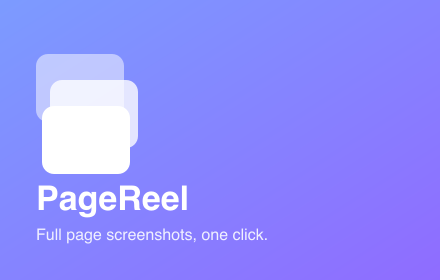
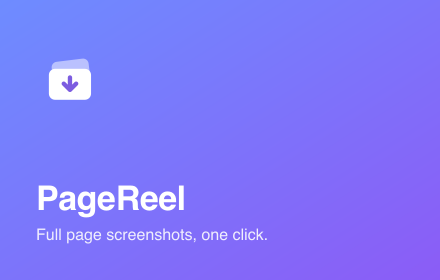
Finish Chrome Web Store publish readiness
- Host privacy policy live via GitHub Pages, wire the real URL into
  the listing and README instead of a placeholder
- Refresh promo tile art and popup screenshot to match the new icon
  and brand palette
- Update listing copy: keyboard shortcut, accurate header-capture
  behavior, broader ASO keywords
- README now tracks exactly what's done vs. what still needs the
  developer's own Chrome Web Store account

Changed region(s): [[0.0591, 0.1714, 0.325, 0.6286], [0.1182, 0.6571, 0.4432, 0.7714]]

diff --git a/README.md b/README.md
@@ -2,58 +2,67 @@
 
 A Manifest V3 Chrome extension that scrolls the active tab and stitches a full-length screenshot into one PNG, saved locally. No accounts, no server, no tracking.
 
-## Why it's built this way (design notes)
+Source: https://github.com/MehmetDemirkok/pagereel
+Live privacy policy: https://mehmetdemirkok.github.io/pagereel/store/privacy-policy.html
 
-The earlier extension you mentioned likely broke because a mid-capture failure (rate limiting, a slow/lazy page, or the popup closing) left the page in a half-modified state — sticky elements hidden, scroll position never restored, an overlay stuck on screen. PageReel is built specifically to avoid that:
+## How it behaves (and why)
 
-- All capture state lives in the **content script**, not the popup, so closing the popup never interrupts anything.
-- Every "prepare" step (hiding sticky/fixed elements, disabling smooth scroll) has a matching, always-run cleanup step.
-- A **45-second watchdog timer** in the content script force-restores the page (visibility, scroll position, overlay removed) if it never hears back from the background script — so a crash can never leave a page stuck.
-- `chrome.tabs.captureVisibleTab` calls are throttled and retried to respect Chrome's ~2-calls/second limit, instead of firing them as fast as possible.
-- Page height is capped (30,000px) to avoid crashing on infinite-scroll pages.
-- Minimal permissions: only `activeTab` (granted by the user's own click), no `<all_urls>`.
+- **Header handling**: the very first frame (top of page) is captured exactly as a visitor sees it, sticky header included. Only from the second frame on is the sticky/fixed header hidden — otherwise it would get re-captured, pinned, at every scroll position.
+- **Resolution**: captures happen at the display's real device pixel ratio (2x+ on Retina), losslessly encoded as PNG. There is deliberately no artificial zoom-based "sharpening" — an earlier version tried temporarily zooming the tab to 200% to force extra pixel density, but page zoom shrinks the CSS viewport and can cross a site's responsive breakpoint (swapping in its mobile layout mid-capture). That was reverted as unsafe.
+- **Crash safety**: all capture state lives in the content script, not the popup, so closing the popup never interrupts anything. A 45-second watchdog force-restores the page (visibility, scroll position, overlay removed) if it never hears back from the background script.
+- **Screenshots never contain the progress overlay**: the overlay is hidden immediately before each `captureVisibleTab` call and re-shown right after.
+- **Scroll detection**: works on both ordinary pages (window/`<html>` scrolls) and app-shell SPAs that keep `html`/`body` pinned to 100vh and scroll an inner container instead — the largest scrollable element is auto-detected.
+- `chrome.tabs.captureVisibleTab` calls are throttled/retried to respect Chrome's ~2-calls/second limit. Page height is capped (30,000px, with a total-pixel safety net on top) to avoid crashing on infinite-scroll pages.
+- Minimal permissions: only `activeTab` (granted by the user's own click or the keyboard shortcut), no `<all_urls>`.
+- Keyboard shortcut: `⌘⇧U` / `Ctrl+Shift+U` (user-customizable at `chrome://extensions/shortcuts`), shown live in the popup.
 
 ## Project structure
 
 ```
 manifest.json
 src/
-  background.js     — service worker: orchestrates scroll+capture loop
+  background.js     — service worker: orchestrates scroll+capture loop, keyboard command
   content.js         — injected into the page: scrolling, overlay UI, watchdog
   offscreen.html/js  — stitches tiles into one PNG (canvas isn't available in the worker)
   popup/              — toolbar popup UI
-icons/                — extension icons (icon.svg is the source, rasterized to 16/32/48/128)
+icons/                — icon.svg (128/48, detailed) + icon-small.svg (16/32, simplified for legibility), rasterized to PNG
 store/
-  listing.md          — title, descriptions, keywords, permission justifications
-  privacy-policy.html — must be hosted at a public URL for the dashboard (see below)
-  promo/               — promo tile art
+  listing.md          — title, descriptions, keywords, permission justifications (ready to paste into the dashboard)
+  privacy-policy.html — source; live copy is hosted via GitHub Pages (see link above)
+  promo/               — promo tile + popup screenshot
 ```
 
-## Test it locally (do this first)
+## Test it locally
 
 1. Open `chrome://extensions`.
 2. Enable **Developer mode** (top right).
 3. Click **Load unpacked** and select the `pagereel` folder.
-4. Open any long webpage (a blog post, docs page, etc.).
-5. Click the PageReel icon in the toolbar → **Capture full page**.
-6. Watch the small progress pill scroll down the page, then check your Downloads folder for `PageReel/<site>-<timestamp>.png`.
-7. Try **Cancel** mid-capture, and try it on a page with a sticky header/nav to confirm it's hidden in the result.
+4. Open any long webpage. Click the PageReel icon → **Capture full page**, or just press `⌘⇧U`.
+5. Watch the progress pill scroll down the page, then check Downloads for `PageReel/<site>-<timestamp>.png`.
+6. Try **Cancel** mid-capture, and try a page with a sticky header to confirm it appears once at the top and isn't duplicated below.
 
-If something looks off, check `chrome://extensions` → PageReel → **service worker** (console) and the page's own DevTools console (the content script logs there).
+If something looks off, check `chrome://extensions` → PageReel → **service worker** console, and the page's own DevTools console (the content script logs there).
 
-## Publish to the Chrome Web Store today
+## Publish to the Chrome Web Store — what's already done
 
-1. **Developer account** — if you don't already have one: go to the [Chrome Web Store Developer Dashboard](https://chrome.google.com/webstore/devconsole), pay the one-time $5 registration fee if prompted.
-2. **Host the privacy policy** — `store/privacy-policy.html` needs a public URL (the dashboard won't accept a local file). Fastest option: push this folder to a GitHub repo and enable GitHub Pages, or drop just that file on any static host you already use. Paste the resulting URL into `store/listing.md` where it says `<PRIVACY_POLICY_URL>` and into the dashboard's privacy policy field.
-3. **Zip the package** (from one level above `pagereel/`):
+- [x] Icons (16/32/48/128), tuned separately for small-size legibility vs. the detailed 128px store icon.
+- [x] Privacy policy written and **live** at a public URL (see top of this file) — paste it straight into the dashboard.
+- [x] Store listing copy, keywords, single-purpose description, and permission justifications — all in `store/listing.md`, ready to paste in.
+- [x] Promo tile (440×280) and a popup screenshot in `store/promo/`.
+- [x] Source pushed to GitHub (public): https://github.com/MehmetDemirkok/pagereel
+
+## What's left — needs your Chrome Web Store account (can't be done from here)
+
+1. **Developer account**: [Chrome Web Store Developer Dashboard](https://chrome.google.com/webstore/devconsole) — pay the one-time $5 registration fee if you haven't already.
+2. **Zip the package** (run from inside `pagereel/`):
    ```
-   cd pagereel && zip -r ../pagereel.zip . -x "store/*" -x "*.svg" -x "README.md" -x ".DS_Store"
+   zip -r ../pagereel.zip . -x "store/*" -x "*.svg" -x "README.md" -x ".DS_Store" -x ".git/*" -x ".gitignore"
    ```
-   The store package should contain `manifest.json`, `icons/`, and `src/` only — the `store/` folder is listing material, not part of the extension.
-4. In the dashboard: **New item** → upload `pagereel.zip`.
-5. Fill in the listing using `store/listing.md` (title, short/detailed description, category: Productivity).
-6. Upload icons (already in `icons/`) and at least one screenshot (1280x800 or 640x400 — take one of the popup and one of the in-page progress overlay from your local test in step above).
-7. **Privacy practices tab**: paste the single-purpose description and the permission justifications from `store/listing.md`, and the hosted privacy policy URL from step 2. Declare no data collection.
-8. Submit for review.
+   The store package should contain only `manifest.json`, `icons/*.png`, and `src/`.
+3. Dashboard → **New item** → upload `pagereel.zip`.
+4. Fill in the listing using `store/listing.md` (title, short/detailed description, category: Productivity, keywords).
+5. Upload `icons/icon128.png` as the store icon, plus the screenshot(s) in `store/promo/` (at least one 1280×800 or 640×400 — for a stronger listing, also grab one of the in-page progress overlay from your local test above).
+6. **Privacy practices tab**: paste the single-purpose description + permission justifications from `store/listing.md`, and the privacy policy URL from the top of this file. Declare no data collection.
+7. Submit for review.
 
-Realistic expectation: submission takes ~15 minutes today, but Google's review isn't instant — simple, minimal-permission extensions like this one are often approved within a few hours to a couple of days, not necessarily the same day. There's no way to guarantee same-day approval since that's Google's process, not something controllable from here.
+Realistic expectation: submission takes ~15 minutes today, but Google's review isn't instant — simple, minimal-permission extensions like this are often approved within a few hours to a couple of days. There's no lever here (or anywhere) that guarantees same-day approval or install volume — that's Google's review queue and organic/Store-search discovery, not something an extension's code or listing copy can force. What *is* in scope and done: the keywords, title, and description are written to maximize how easily people searching for "full page screenshot" actually find it.

diff --git a/store/listing.md b/store/listing.md
@@ -19,14 +19,15 @@ PageReel captures the *entire* page — not just what fits on your screen. One c
 
 **Why PageReel**
 - True full-page capture — long articles, pricing pages, dashboards, chat threads, entire documentation sites, all in one image.
-- Sticky headers and floating chat widgets are automatically hidden during capture, so you don't get the same navbar repeated ten times down your screenshot.
+- The top of the page is captured exactly as you see it; sticky headers and floating widgets are then kept out of every frame below it, so you don't get the same navbar repeated ten times down your screenshot.
 - A quiet on-page progress indicator shows exactly what's happening, with a one-click cancel if you change your mind.
+- A keyboard shortcut (⌘⇧U / Ctrl+Shift+U, customizable) starts a capture without opening any menu.
 - Adjustable capture speed: Fast for simple pages, Thorough for pages with lazy-loaded images or animations.
-- Nothing leaves your computer. No accounts, no cloud upload, no tracking — the image is built entirely on your device.
+- Nothing leaves your computer. No accounts, no cloud upload, no tracking — the image is built entirely on your device, at your screen's full native resolution.
 
 **How it works**
 1. Open the page you want to capture.
-2. Click the PageReel icon and press "Capture full page."
+2. Click the PageReel icon (or press ⌘⇧U) and press "Capture full page."
 3. Watch the progress bar as PageReel scrolls and captures.
 4. Find your screenshot in Downloads, named after the site and timestamp.
 
@@ -34,9 +35,9 @@ PageReel captures the *entire* page — not just what fits on your screen. One c
 Bug reports and QA documentation, saving long articles or receipts, archiving web pages, design reviews, sharing full page context with teammates, and portfolio/case-study screenshots.
 
 **Permissions, plainly explained**
-PageReel only acts on the tab you explicitly click it on (`activeTab`), never runs in the background, and never sends any data anywhere. See the full privacy policy: <PRIVACY_POLICY_URL>
+PageReel only acts on the tab you explicitly click it on (`activeTab`), never runs in the background, and never sends any data anywhere. See the full privacy policy: https://mehmetdemirkok.github.io/pagereel/store/privacy-policy.html
 
-Keywords: full page screenshot, scrolling screenshot, capture entire page, webpage screenshot, long screenshot, screen capture extension, page to image, save whole page.
+Keywords: full page screenshot, full page screenshot chrome extension, scrolling screenshot, capture entire page, webpage screenshot, long screenshot, screen capture extension, website screenshot tool, page to image, save whole page, screenshot entire webpage, capture full website, download webpage as image.
 
 ## Single purpose description (Chrome Web Store "Privacy practices" tab)
 PageReel's single purpose is to capture a full-length screenshot of the currently active browser tab by scrolling the page and stitching the captured frames into one image file, saved locally.
@@ -57,4 +58,4 @@ None of the listed data categories are collected. PageReel does not collect pers
 - [ ] At least one screenshot, 1280x800 or 640x400 px (see `store/promo/`)
 - [ ] Small promo tile, 440x280 px (optional but recommended)
 - [ ] Marquee promo tile, 1400x560 px (optional)
-- [x] Privacy policy page — `store/privacy-policy.html` (must be hosted at a public URL for the dashboard field — see README)
+- [x] Privacy policy page — hosted and live at https://mehmetdemirkok.github.io/pagereel/store/privacy-policy.html
